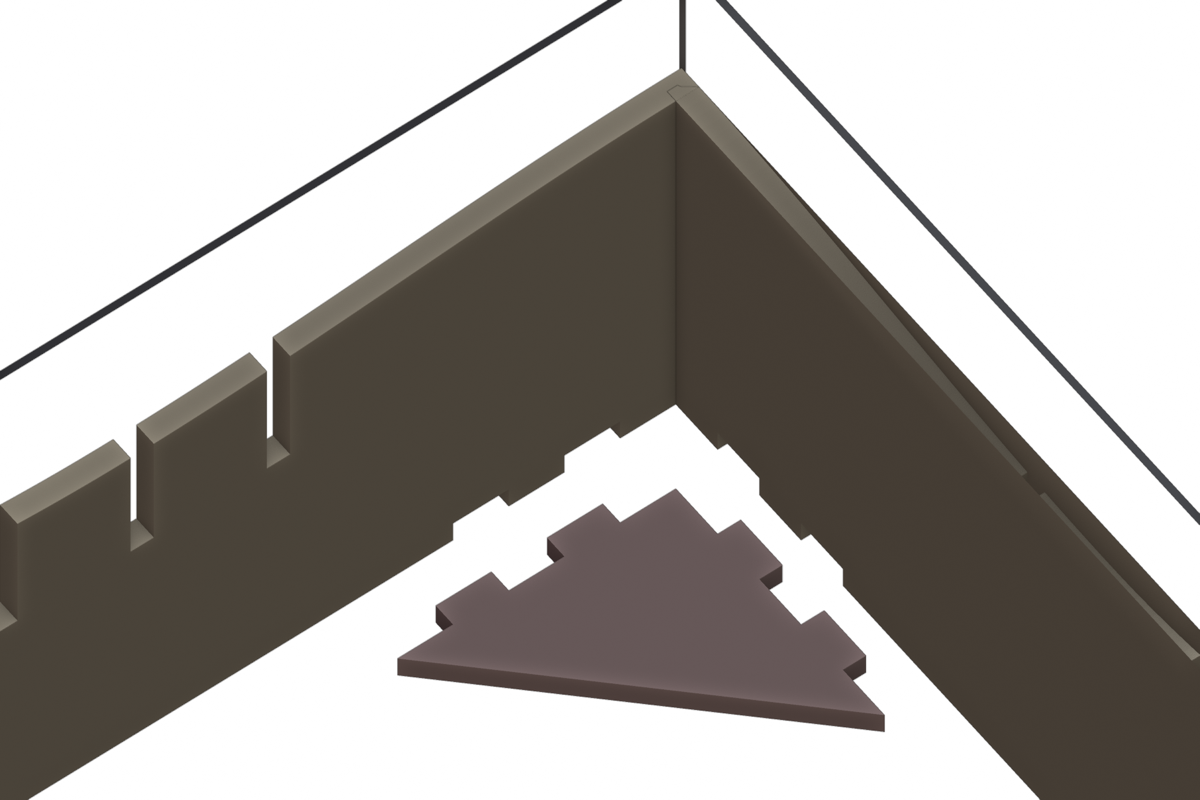
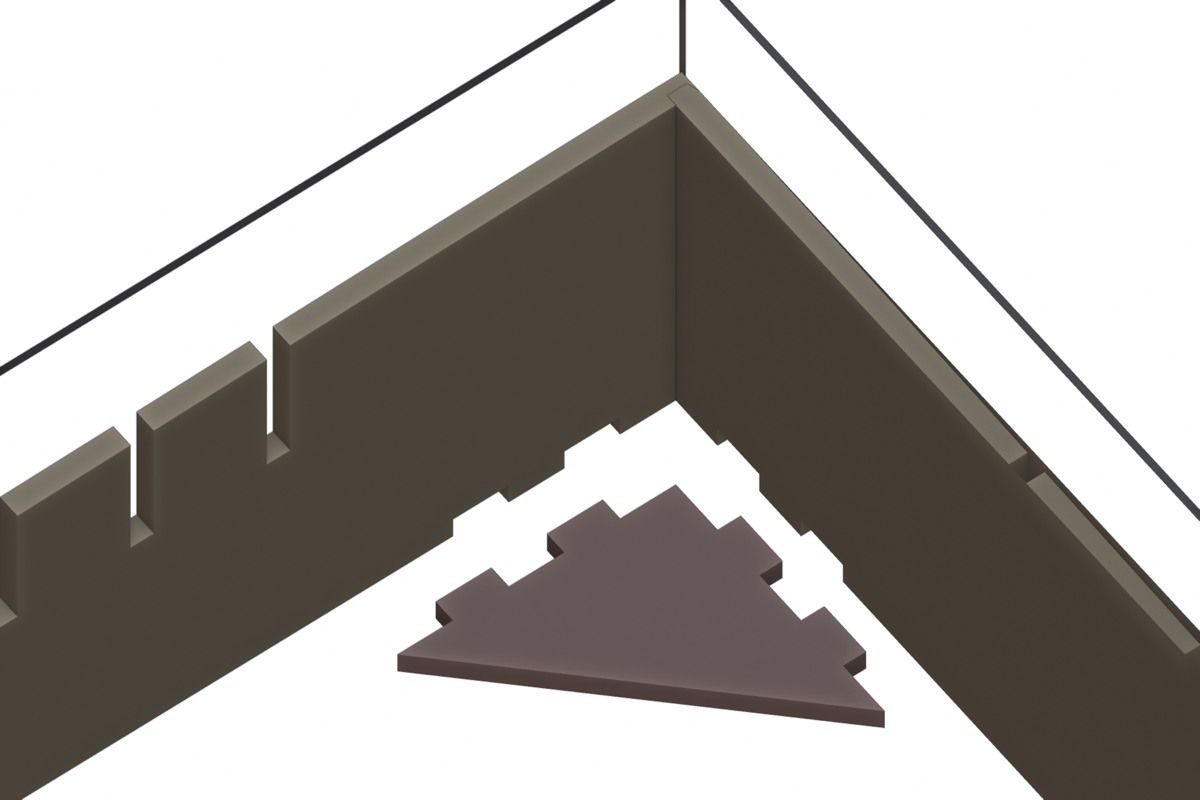
Drawer organizer: freer, more varied wave generator
Replace undulation with wander: varying feature counts per span, random
positions with a minimum spacing, heights across the whole range, per-corner
wall heights shared by both walls at a corner, and skewed rises and falls.
Side-edge notches clip to a low corner. Tests for spacing, seeds, skew, and
corner agreement.

Claude-Session: https://claude.ai/code/session_01LZycd3S2pwbAJV8HQ6xUfH

diff --git a/lasercut/wave.py b/lasercut/wave.py
@@ -1,8 +1,9 @@
 """Gently undulating edges.
 
-`undulation` lays out control points for a Profile: anchors that the edge must pass
-through at a fixed level, with crests (or troughs) between them whose positions and
-heights are jittered by a seeded random generator so that no two panels match.
+`wander` lays out a Profile: fixed anchors the edge must pass through, with a varying
+number of crests and troughs between them at irregular positions and heights, and
+skewed rises and falls, all drawn from a seeded random generator so every panel
+comes out different.
 """
 from __future__ import annotations
 
@@ -11,28 +12,55 @@ import random
 from lasercut.panel import Point, Profile
 
 
-def undulation(length: float, anchors: list[float], level: float, swing: float,
-               wavelength: float, direction: int, rng: random.Random) -> Profile:
-    """A wavy profile along [0, length].
+def wander(length: float, anchors: list[Point], lo: float, hi: float,
+           wavelength: float, rng: random.Random, min_spacing: float | None = None) -> Profile:
+    """A wavy profile along [0, length] passing exactly through `anchors` (x, height),
+    which must include x=0 and x=length.
 
-    The edge sits exactly at `level` at x=0, x=length and every x in `anchors`.
-    Between consecutive anchors it swings away from `level` by up to `swing`, in
-    `direction` (+1 up, -1 down), with roughly one full swing per `wavelength`.
-    Successive swings within a span come back only part way, so the highs and lows
-    vary. `rng` supplies the variation; seed it per panel for distinct shapes.
+    Between consecutive anchors the edge visits some crests and troughs, alternately
+    in the upper and lower parts of [lo, hi]. How many is drawn around the span
+    divided by `wavelength`, and their parity is picked so the edge always turns
+    away from an anchor rather than sitting flat beside it. Positions are random
+    with at least `min_spacing` between features (default a fifth of the wavelength,
+    at least 2), which is what keeps the slopes gentle.
     """
-    xs = sorted({0.0, length, *anchors})
+    anchors = sorted(anchors)
+    if anchors[0][0] != 0.0 or anchors[-1][0] != length:
+        raise ValueError("anchors must include x=0 and x=length")
+    spacing = min_spacing if min_spacing is not None else max(2.0, 0.2 * wavelength)
+    mid = (lo + hi) / 2
     pts: list[Point] = []
-    for a, b in zip(xs, xs[1:]):
-        pts.append((a, level))
-        span = b - a
-        k = max(1, round(span / wavelength))
-        seg = span / k
-        for i in range(k):
-            cx = a + seg * (i + 0.5 + rng.uniform(-0.15, 0.15))
-            pts.append((cx, level + direction * swing * rng.uniform(0.7, 1.0)))
-            if i < k - 1:
-                mx = a + seg * (i + 1 + rng.uniform(-0.1, 0.1))
-                pts.append((mx, level + direction * swing * rng.uniform(0.0, 0.3)))
-    pts.append((length, level))
-    return Profile(pts)
+    skews: list[float] = []
+    for (xa, ha), (xb, hb) in zip(anchors, anchors[1:]):
+        pts.append((xa, ha))
+        span = xb - xa
+        first_high = ha < mid                    # turn away from the anchor
+        want_odd = (ha < mid) == (hb < mid)      # so the last feature turns toward the next anchor
+        base = max(1, round(span / wavelength))
+        room = int((span - spacing) // spacing)  # most features that can fit
+        options = [n for n in range(max(1, base - 1), base + 3)
+                   if n % 2 == (1 if want_odd else 0) and n <= room]
+        n = rng.choice(options) if options else (1 if want_odd else 2)
+        xs = _spread(xa, xb, n, spacing, rng)
+        for i, x in enumerate(xs):
+            high = first_high if i % 2 == 0 else not first_high
+            h = rng.uniform(lo + 0.55 * (hi - lo), hi) if high else rng.uniform(lo, lo + 0.45 * (hi - lo))
+            pts.append((x, h))
+        skews += [rng.uniform(0.7, 1.45) for _ in range(n + 1)]
+    pts.append(anchors[-1])
+    return Profile(pts, skews)
+
+
+def _spread(xa: float, xb: float, n: int, spacing: float, rng: random.Random) -> list[float]:
+    """`n` sorted positions strictly inside (xa, xb), each at least `spacing` from its
+    neighbours and from the ends; falls back to jittered even spacing if random
+    placement keeps failing."""
+    lo, hi = xa + spacing, xb - spacing
+    if n == 1:
+        return [rng.uniform(lo, hi)] if hi > lo else [(xa + xb) / 2]
+    for _ in range(200):
+        xs = sorted(rng.uniform(lo, hi) for _ in range(n))
+        if all(b - a >= spacing for a, b in zip(xs, xs[1:])):
+            return xs
+    seg = (xb - xa) / (n + 1)
+    return [xa + seg * (i + 1) + rng.uniform(-0.2, 0.2) * seg for i in range(n)]

diff --git a/projects/drawer-organizer/design.py b/projects/drawer-organizer/design.py
@@ -15,9 +15,10 @@ through the bottom edges of both walls they touch, to keep the glued box square.
 Top edges undulate. The rule that keeps the joints modular: a piece passing through a
 joint (a divider's end, or a row divider at a crossing) always dips to one fixed low
 level there, while the receiving piece's wavy edge stands above it by up to the
-swing. Walls anchor high at the corners and dip between; dividers anchor low at their
-ends and crossings and crest between. Slot floors sit at a fixed level below the low
-level, so every ear keeps the same engagement wherever it goes.
+swing. Dividers anchor low at their ends and crossings and wander between; walls
+wander freely between the low level and the full height, meeting at whatever height
+each corner was given. Slot floors sit at a fixed level below the low level, so every
+ear keeps the same engagement wherever it goes.
 
 Coordinates: X runs left to right across the drawer, Y front to back, Z up. The box's
 outer footprint is [0, width] x [0, depth]; the front wall is at y=0.
@@ -32,7 +33,7 @@ from dataclasses import dataclass, field
 from lasercut.glowforge import bed_fit
 from lasercut.panel import (Notch, Panel, PanelOutline, Placement, Profile, corner_gusset, even_tab_spans,
                             finger_notches, odd_finger_count)
-from lasercut.wave import undulation
+from lasercut.wave import wander
 
 
 @dataclass(frozen=True)
@@ -221,16 +222,35 @@ class Design:
                 panels.append(Panel(name, gusset, t, Placement.flat(origin, sx, sy), "gusset"))
         return panels
 
+    def corner_height(self, corner: str) -> float:
+        """Height of the walls where they meet at a corner ('front_left' etc.), the
+        same for both walls. Kept in the upper part of the range so the top corner
+        finger is never a sliver."""
+        cfg = self.cfg
+        rng = random.Random(f"{cfg.wave_seed}:corner:{corner}")
+        return rng.uniform(self.ear_top + 0.4 * cfg.wave_swing, self.height)
+
+    WALL_CORNERS = {
+        "wall_front": ("front_left", "front_right"),
+        "wall_back": ("back_left", "back_right"),
+        "wall_left": ("front_left", "back_left"),
+        "wall_right": ("front_right", "back_right"),
+    }
+
     def _wave(self, name: str, length: float, kind: str, anchors: list[float] = ()) -> Profile | None:
-        """Top-edge profile for one panel, or None for a straight top. Walls anchor at
-        the full height and dip; dividers anchor at the ear level and rise."""
+        """Top-edge profile for one panel, or None for a straight top. Walls are
+        pinned only at their corners; dividers are pinned to the ear level at their
+        ends and crossings. Everything else is left to `wander`."""
         cfg = self.cfg
         if cfg.wave_swing <= 0:
             return None
         rng = random.Random(f"{cfg.wave_seed}:{name}")
         if kind == "wall":
-            return undulation(length, [], self.height, cfg.wave_swing, cfg.wave_length, -1, rng)
-        return undulation(length, list(anchors), self.ear_top, cfg.wave_swing, cfg.wave_length, +1, rng)
+            a, b = self.WALL_CORNERS[name]
+            pins = [(0.0, self.corner_height(a)), (length, self.corner_height(b))]
+        else:
+            pins = [(0.0, self.ear_top), (length, self.ear_top)] + [(x, self.ear_top) for x in anchors]
+        return wander(length, pins, self.ear_top, self.height, cfg.wave_length, rng)
 
     def _gusset_notches(self, wall_length: float) -> list[Notch]:
         """Bottom-edge notches at both ends of a wall for the gusset tabs. Spans are

diff --git a/lasercut/panel.py b/lasercut/panel.py
@@ -50,14 +50,21 @@ class Notch:
 class Profile:
     """A smooth height-along-x curve through control points, using cosine
     interpolation so the curve is level at every control point. Each control point is
-    therefore a crest, a trough, or a flat anchor."""
+    therefore a crest, a trough, or a flat anchor. An optional skew per segment
+    (1 is symmetric; below 1 reaches the far level early, above 1 late) makes rises
+    and falls asymmetric while keeping the ends level."""
 
-    def __init__(self, points: list[Point]):
+    def __init__(self, points: list[Point], skews: list[float] | None = None):
         pts = sorted(points)
         if len(pts) < 2:
             raise ValueError("a profile needs at least two control points")
         self.xs = [p[0] for p in pts]
         self.hs = [p[1] for p in pts]
+        self.skews = list(skews) if skews else [1.0] * (len(pts) - 1)
+        if len(self.skews) != len(pts) - 1:
+            raise ValueError("one skew per segment")
+        if any(g <= 0.5 for g in self.skews):
+            raise ValueError("skews must be above 0.5 to keep the ends level")
 
     def __call__(self, x: float) -> float:
         if x <= self.xs[0]:
@@ -66,7 +73,7 @@ class Profile:
             return self.hs[-1]
         i = bisect.bisect_right(self.xs, x) - 1
         x0, x1, h0, h1 = self.xs[i], self.xs[i + 1], self.hs[i], self.hs[i + 1]
-        u = (x - x0) / (x1 - x0)
+        u = ((x - x0) / (x1 - x0)) ** self.skews[i]
         return h0 + (h1 - h0) * (1 - math.cos(math.pi * u)) / 2
 
     @property
@@ -142,7 +149,7 @@ class PanelOutline:
             for n in sorted(self.bottom, key=lambda n: n.start):
                 pts += [(n.start, 0.0), (n.start, n.depth), (n.end, n.depth), (n.end, 0.0)]
             pts.append((L, 0.0))
-            for n in sorted(self.right, key=lambda n: n.start):
+            for n in self._clipped(self.right, f(L)):
                 pts += [(L, n.start), (L - n.depth, n.start), (L - n.depth, n.end), (L, n.end)]
             x = L
             for n in sorted(self.top, key=lambda n: n.start, reverse=True):
@@ -150,10 +157,21 @@ class PanelOutline:
                 pts += [(n.end, H - n.depth), (n.start, H - n.depth)]
                 x = n.start
             pts += self._top_run(f, 0.0, x)
-            for n in sorted(self.left, key=lambda n: n.start, reverse=True):
+            for n in reversed(self._clipped(self.left, f(0.0))):
                 pts += [(0.0, n.end), (n.depth, n.end), (n.depth, n.start), (0.0, n.start)]
             self._points = simplify(pts)
         return list(self._points)
+
+    @staticmethod
+    def _clipped(notches: list[Notch], top: float) -> list[Notch]:
+        """Side-edge notches sorted upward, cut off where the curved top edge is
+        lower than the panel's nominal height."""
+        out = []
+        for n in sorted(notches, key=lambda n: n.start):
+            if n.start >= top - EPS:
+                continue
+            out.append(n if n.end <= top + EPS else Notch(n.start, top, n.depth))
+        return out
 
     def _top_run(self, f: Callable[[float], float], lo: float, hi: float) -> list[Point]:
         """Points along the top edge from x=hi down to x=lo, following the curve."""

diff --git a/tests/test_panel.py b/tests/test_panel.py
@@ -132,14 +132,49 @@ def test_curved_top_rejects_bad_profiles():
                      top_profile=Profile([(0, 4.5), (5, 4.0), (10, 4.5)])).points()
 
 
-def test_undulation_hits_anchors_and_stays_in_range():
+def test_wander_hits_anchors_and_stays_in_range():
     import random
-    from lasercut.wave import undulation
-    f = undulation(20.0, [8.0], 4.0, 0.5, 10.0, +1, random.Random("t"))
+    from lasercut.wave import wander
+    f = wander(20.0, [(0.0, 4.0), (8.0, 4.0), (20.0, 4.0)], 4.0, 4.5, 10.0, random.Random("t"))
     for x in (0.0, 8.0, 20.0):
         assert f(x) == 4.0
     samples = [f(x / 10) for x in range(201)]
     assert 4.0 <= min(samples) and max(samples) <= 4.5
-    assert max(samples) > 4.3
-    g = undulation(20.0, [], 4.5, 0.5, 10.0, -1, random.Random("u"))
-    assert g(0) == 4.5 and g(20) == 4.5 and min(g(x / 10) for x in range(201)) < 4.2
+    assert max(samples) > 4.25
+    g = wander(29.0, [(0.0, 4.4), (29.0, 4.2)], 4.0, 4.5, 10.0, random.Random("u"))
+    assert g(0) == 4.4 and g(29) == 4.2
+    # gentle: no chord steeper than about 25 degrees
+    ys = [g(x / 8) for x in range(233)]
+    assert max(abs(b - a) for a, b in zip(ys, ys[1:])) < 0.125 * 0.47
+    with pytest.raises(ValueError):
+        wander(10.0, [(1.0, 4.0), (10.0, 4.0)], 4.0, 4.5, 10.0, random.Random(1))
+
+
+def test_different_seeds_give_different_profiles():
+    import random
+    from lasercut.wave import wander
+    pins = [(0.0, 4.0), (20.0, 4.0)]
+    shapes = {tuple(round(wander(20.0, pins, 4.0, 4.5, 10.0, random.Random(seed))(x / 4), 4)
+                    for x in range(81)) for seed in range(6)}
+    assert len(shapes) == 6
+
+
+def test_skewed_profile_keeps_ends_level():
+    from lasercut.panel import Profile
+    f = Profile([(0, 4.0), (10, 4.5)], skews=[1.4])
+    assert f(0) == 4.0 and f(10) == 4.5
+    assert f(5) < 4.25                          # reaches the far level late
+    assert abs(f(0.1) - 4.0) < 0.001 and abs(f(9.9) - 4.5) < 0.001
+    with pytest.raises(ValueError):
+        Profile([(0, 4.0), (10, 4.5)], skews=[0.4])
+
+
+def test_side_notches_clip_to_a_low_corner():
+    from lasercut.panel import Profile
+    fingers = finger_notches(4.5, 0.25, 9, notch_first=True)   # top slot is a notch
+    f = Profile([(0, 4.2), (5, 4.5), (10, 4.3)])
+    p = PanelOutline(10, 4.5, left=fingers, right=fingers, top_profile=f)
+    pts = p.points()
+    assert max(y for _, y in pts) <= 4.5 + 1e-9
+    assert (0.25, 4.2) in pts and (9.75, 4.3) in pts       # clipped notch corners
+    assert not any(abs(x) < 1e-9 and y > 4.2 + 1e-9 for x, y in pts)

diff --git a/projects/drawer-organizer/test_design.py b/projects/drawer-organizer/test_design.py
@@ -38,9 +38,18 @@ def test_wavy_tops_follow_the_joint_rule(design):
     by_kind = {}
     for p in design.panels:
         by_kind.setdefault(p.kind, []).append(p)
+    walls = {w.name: w.outline.top_profile for w in by_kind["wall"]}
+    W, D = design.width, design.depth
+    # the two walls meeting at each corner agree on its height
+    assert walls["wall_front"](0) == walls["wall_left"](0)
+    assert walls["wall_front"](W) == walls["wall_right"](0)
+    assert walls["wall_back"](0) == walls["wall_left"](D)
+    assert walls["wall_back"](W) == walls["wall_right"](D)
+    assert len({round(walls["wall_front"](0), 6), round(walls["wall_front"](W), 6),
+                round(walls["wall_back"](0), 6), round(walls["wall_back"](W), 6)}) == 4
     for w in by_kind["wall"]:
         f = w.outline.top_profile
-        assert f(0) == H and f(w.outline.length) == H            # corners full height
+        assert low + 0.4 * 0.5 <= f(0) <= H and low + 0.4 * 0.5 <= f(w.outline.length) <= H
         assert low <= min(f(x / 8) for x in range(int(w.outline.length * 8))) <= H
         for n in w.outline.top:                                   # ears never stand proud
             assert f((n.start + n.end) / 2) >= low - 1e-9
@@ -53,9 +62,11 @@ def test_wavy_tops_follow_the_joint_rule(design):
         assert f(0) == low and f(r.outline.length) == low         # ends dip to the ear level
         for n in r.outline.bottom[1:-1]:                          # and so does every crossing
             assert f((n.start + n.end) / 2) == pytest.approx(low, abs=1e-9)
-    # no two column dividers share a shape
+    # no two column dividers share a shape, and they differ in how many crests they have
     shapes = {tuple(c.outline.points()) for c in by_kind["column"]}
     assert len(shapes) == len(by_kind["column"])
+    crests = {len([h for h in c.outline.top_profile.hs if h > low + 0.25]) for c in by_kind["column"]}
+    assert len(crests) > 1
 
 
 def test_straight_tops_when_swing_is_zero():

diff --git a/projects/drawer-organizer/README.md b/projects/drawer-organizer/README.md
@@ -37,10 +37,12 @@ any column front to back. Nothing is glued, so the layout can change later.
   are alike. The rule that keeps the joints modular: a piece passing through a joint
   (a divider's ear, or a row divider at a crossing) always dips to one fixed low level
   there, and the receiving piece's wavy edge stands above it by anywhere from nothing
-  to the full swing. Walls anchor at full height at the corners and dip between them;
-  dividers anchor at the low level at their ends and crossings and crest between. Slot
-  floors sit a fixed distance below the low level, so every ear has the same engagement
-  wherever it goes and any divider still fits any position.
+  to the full swing. Dividers are pinned to the low level at their ends and crossings;
+  walls are pinned only at the corners, where the two walls that meet share a height
+  chosen per corner. Between pins each edge wanders: a varying number of crests and
+  troughs at irregular positions and heights, with skewed rises and falls, all drawn
+  from a seed. Slot floors sit a fixed distance below the low level, so every ear has
+  the same engagement wherever it goes and any divider still fits any position.
 - **Corner gussets.** A flat right-angle triangle lies on the drawer floor in each
   corner, its two legs against the walls. Two tabs along each leg pass through the wall
   and end flush with its outer face, which sits against the drawer. The walls have
@@ -65,7 +67,7 @@ All in `config.py`, all in inches.
 | `row_pitch` | 2.5 | target spacing of row-divider positions along the depth; snapped |
 | `notch_depth` | 1.25 | how far a divider's ear engages its slot, measured from the low level |
 | `wave_swing` | 0.5 | rise and fall of the top edges, so tops run from 4.0 to 4.5; 0 for straight tops |
-| `wave_length` | 10 | typical distance between crests |
+| `wave_length` | 10 | rough distance between crests; feature spacing never drops below a fifth of it or 2 in, which keeps slopes gentle |
 | `wave_seed` | 1 | reshuffles every panel's highs and lows |
 | `finger_width` | 0.5 | target; the real width makes an odd finger count |
 | `edge_margin` | 0.5 | solid wood kept between the outermost notch and a corner joint |
@@ -151,7 +153,9 @@ stock thickness get applied at that stage; the geometry here is nominal.
    each of its slot positions. Recessing every passing piece to one low level makes the
    mismatch a consistent detail instead of an accident. The alternative, cutting each
    divider's ears to match one specific position, would give flush joints at the cost
-   of modularity.
+   of modularity. A first version pinned every wall corner at full height and gave
+   every panel the same evenly spaced features, which made them look alike; the
+   generator was loosened so counts, positions, heights, corners and asymmetry all vary.
 7. **Grain and faces.** Plywood cuts the same either side up, and the walls' outer faces
    sit against the drawer, so only the top edges and the divider faces show.
 
